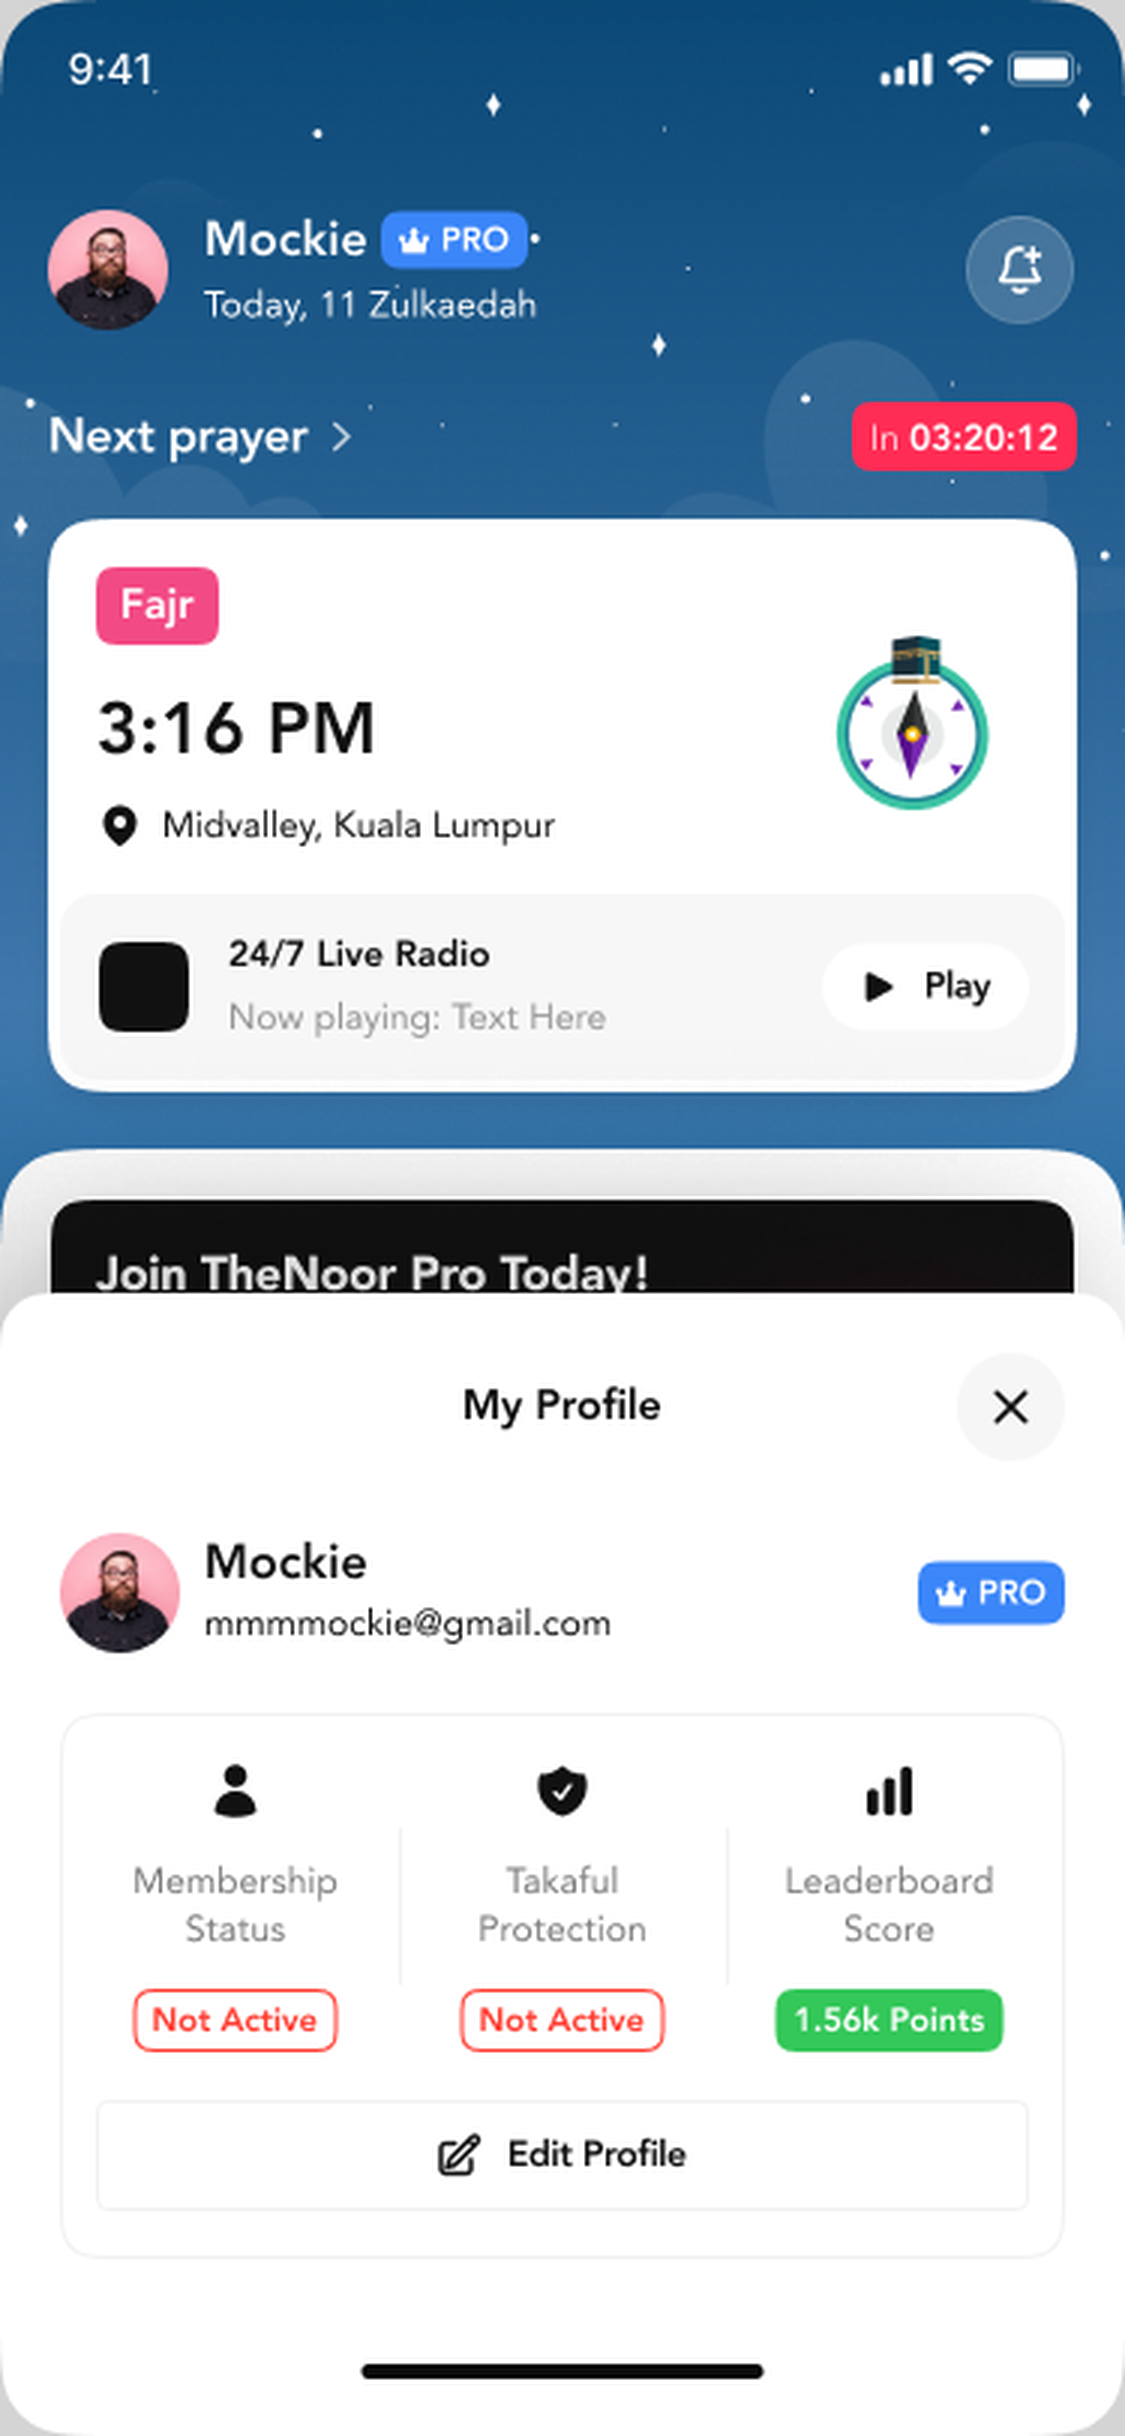
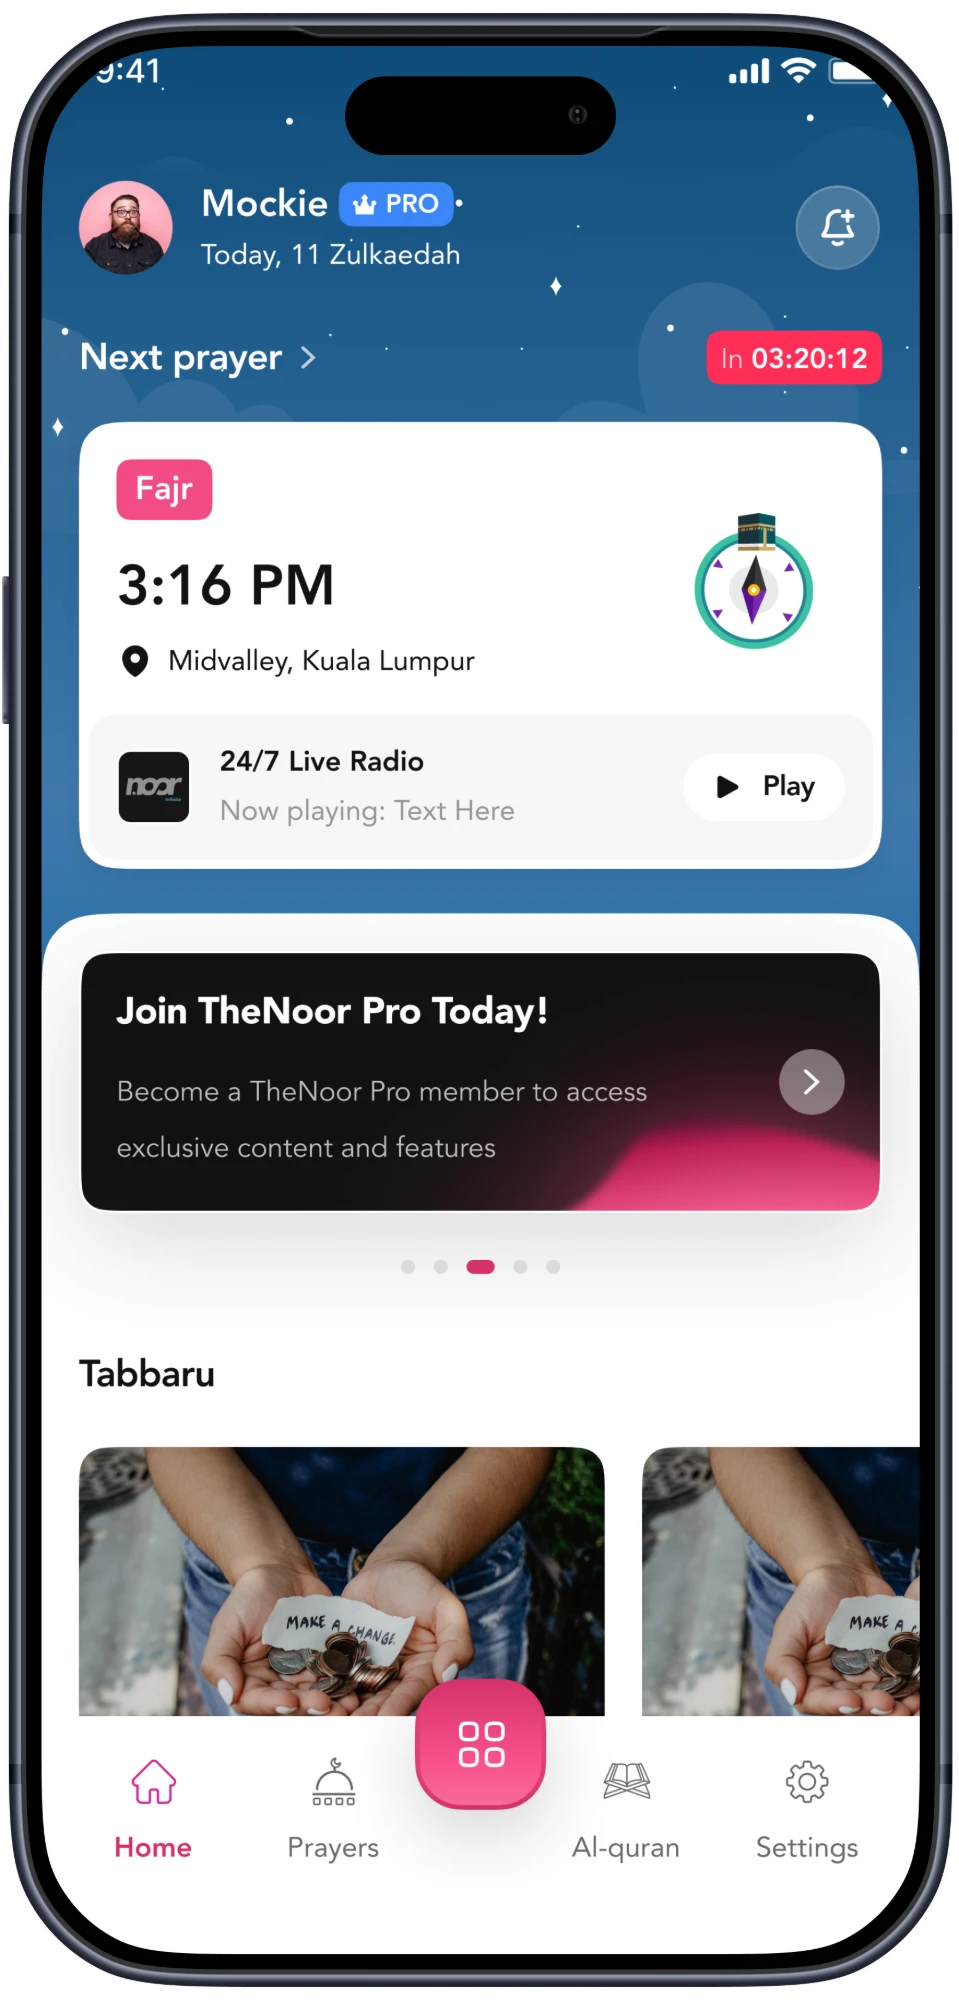
Fix hero phone mockup overflow on mobile, swap in new TheNoor frame
The rotated hero-mobile-peek pushed its visual edge past the
container on narrow viewports, hanging off the right side instead
of lining up with the browser-frame mockup below it. Also replaces
thenoor-mockup.png with a properly device-framed screenshot.

diff --git a/case-thenoor.html b/case-thenoor.html
@@ -8,7 +8,7 @@
 <meta http-equiv="Expires" content="0">
 <title>TheNoor - Case Study - Mahfudh Khoiri Amran</title>
 <meta name="description" content="Designing TheNoor, an all-in-one Muslim lifestyle app with prayer tools, an AI-powered Qur'an memorization checker, mood-based wellness, and a membership tier bundling donation and Takaful insurance.">
-<link rel="stylesheet" href="styles.css?v=71">
+<link rel="stylesheet" href="styles.css?v=72">
 </head>
 <body>
 <div class="ambient-bg" aria-hidden="true"><div class="ambient-layer a"></div><div class="ambient-layer b"></div><span class="firefly" style="top:15%;left:10%;animation-delay:0s,.8s;"></span><span class="firefly m2" style="top:60%;left:6%;animation-delay:3s,2s;"></span><span class="firefly m3 cool" style="top:25%;left:85%;animation-delay:6s,.3s;"></span><span class="firefly m4" style="top:80%;left:75%;animation-delay:2s,3.5s;"></span><span class="firefly m2 cool" style="top:45%;left:50%;animation-delay:9s,1.5s;"></span><span class="firefly" style="top:70%;left:30%;animation-delay:5s,2.8s;"></span><span class="firefly m3" style="top:10%;left:55%;animation-delay:1s,4s;"></span><span class="firefly m4 cool" style="top:90%;left:15%;animation-delay:7s,.6s;"></span><span class="firefly m2" style="top:35%;left:92%;animation-delay:4s,3s;"></span><span class="firefly m3" style="top:55%;left:20%;animation-delay:8s,1s;"></span></div>

diff --git a/case-noorcoffee.html b/case-noorcoffee.html
@@ -8,7 +8,7 @@
 <meta http-equiv="Expires" content="0">
 <title>TheNoor &amp; NoorCoffee - Case Study - Mahfudh Khoiri Amran</title>
 <meta name="description" content="Designing the TheNoor marketing website and NoorCoffee, its coffee franchise sub-brand, including a cafe-partner application flow, for Noor Luminous Sdn Bhd.">
-<link rel="stylesheet" href="styles.css?v=71">
+<link rel="stylesheet" href="styles.css?v=72">
 </head>
 <body>
 <div class="ambient-bg" aria-hidden="true"><div class="ambient-layer a"></div><div class="ambient-layer b"></div><span class="firefly" style="top:15%;left:10%;animation-delay:0s,.8s;"></span><span class="firefly m2" style="top:60%;left:6%;animation-delay:3s,2s;"></span><span class="firefly m3 cool" style="top:25%;left:85%;animation-delay:6s,.3s;"></span><span class="firefly m4" style="top:80%;left:75%;animation-delay:2s,3.5s;"></span><span class="firefly m2 cool" style="top:45%;left:50%;animation-delay:9s,1.5s;"></span><span class="firefly" style="top:70%;left:30%;animation-delay:5s,2.8s;"></span><span class="firefly m3" style="top:10%;left:55%;animation-delay:1s,4s;"></span><span class="firefly m4 cool" style="top:90%;left:15%;animation-delay:7s,.6s;"></span><span class="firefly m2" style="top:35%;left:92%;animation-delay:4s,3s;"></span><span class="firefly m3" style="top:55%;left:20%;animation-delay:8s,1s;"></span></div>

diff --git a/case-ommri.html b/case-ommri.html
@@ -8,7 +8,7 @@
 <meta http-equiv="Expires" content="0">
 <title>Ommri Badal Umrah - Case Study - Mahfudh Khoiri Amran</title>
 <meta name="description" content="Designing Ommri Badal Umrah, a two-sided Badal Umrah and Hajj marketplace connecting customers with verified performers in Mecca, with GPS-tracked ritual proof.">
-<link rel="stylesheet" href="styles.css?v=71">
+<link rel="stylesheet" href="styles.css?v=72">
 </head>
 <body>
 <div class="ambient-bg" aria-hidden="true"><div class="ambient-layer a"></div><div class="ambient-layer b"></div><span class="firefly" style="top:15%;left:10%;animation-delay:0s,.8s;"></span><span class="firefly m2" style="top:60%;left:6%;animation-delay:3s,2s;"></span><span class="firefly m3 cool" style="top:25%;left:85%;animation-delay:6s,.3s;"></span><span class="firefly m4" style="top:80%;left:75%;animation-delay:2s,3.5s;"></span><span class="firefly m2 cool" style="top:45%;left:50%;animation-delay:9s,1.5s;"></span><span class="firefly" style="top:70%;left:30%;animation-delay:5s,2.8s;"></span><span class="firefly m3" style="top:10%;left:55%;animation-delay:1s,4s;"></span><span class="firefly m4 cool" style="top:90%;left:15%;animation-delay:7s,.6s;"></span><span class="firefly m2" style="top:35%;left:92%;animation-delay:4s,3s;"></span><span class="firefly m3" style="top:55%;left:20%;animation-delay:8s,1s;"></span></div>

diff --git a/index.html b/index.html
@@ -8,7 +8,7 @@
 <meta http-equiv="Expires" content="0">
 <title>Mahfudh Khoiri Amran - Product Designer</title>
 <meta name="description" content="Mahfudh Khoiri Amran is a product designer based in Medan, Indonesia, shipping web and mobile UI for a Kuala Lumpur software house and independent Islamic-tech products.">
-<link rel="stylesheet" href="styles.css?v=71">
+<link rel="stylesheet" href="styles.css?v=72">
 </head>
 <body>
 <div class="ambient-bg" aria-hidden="true"><div class="ambient-layer a"></div><div class="ambient-layer b"></div><span class="firefly" style="top:15%;left:10%;animation-delay:0s,.8s;"></span><span class="firefly m2" style="top:60%;left:6%;animation-delay:3s,2s;"></span><span class="firefly m3 cool" style="top:25%;left:85%;animation-delay:6s,.3s;"></span><span class="firefly m4" style="top:80%;left:75%;animation-delay:2s,3.5s;"></span><span class="firefly m2 cool" style="top:45%;left:50%;animation-delay:9s,1.5s;"></span><span class="firefly" style="top:70%;left:30%;animation-delay:5s,2.8s;"></span><span class="firefly m3" style="top:10%;left:55%;animation-delay:1s,4s;"></span><span class="firefly m4 cool" style="top:90%;left:15%;animation-delay:7s,.6s;"></span><span class="firefly m2" style="top:35%;left:92%;animation-delay:4s,3s;"></span><span class="firefly m3" style="top:55%;left:20%;animation-delay:8s,1s;"></span></div>

diff --git a/case-alafasy.html b/case-alafasy.html
@@ -8,7 +8,7 @@
 <meta http-equiv="Expires" content="0">
 <title>Alafasy - Case Study - Mahfudh Khoiri Amran</title>
 <meta name="description" content="Designing Alafasy, an all-in-one Islamic companion app for prayer, Qur'an, Qiblah, and daily spiritual practice, live on the App Store, Play Store, and AppGallery.">
-<link rel="stylesheet" href="styles.css?v=71">
+<link rel="stylesheet" href="styles.css?v=72">
 </head>
 <body>
 <div class="ambient-bg" aria-hidden="true"><div class="ambient-layer a"></div><div class="ambient-layer b"></div><span class="firefly" style="top:15%;left:10%;animation-delay:0s,.8s;"></span><span class="firefly m2" style="top:60%;left:6%;animation-delay:3s,2s;"></span><span class="firefly m3 cool" style="top:25%;left:85%;animation-delay:6s,.3s;"></span><span class="firefly m4" style="top:80%;left:75%;animation-delay:2s,3.5s;"></span><span class="firefly m2 cool" style="top:45%;left:50%;animation-delay:9s,1.5s;"></span><span class="firefly" style="top:70%;left:30%;animation-delay:5s,2.8s;"></span><span class="firefly m3" style="top:10%;left:55%;animation-delay:1s,4s;"></span><span class="firefly m4 cool" style="top:90%;left:15%;animation-delay:7s,.6s;"></span><span class="firefly m2" style="top:35%;left:92%;animation-delay:4s,3s;"></span><span class="firefly m3" style="top:55%;left:20%;animation-delay:8s,1s;"></span></div>

diff --git a/exploratory.html b/exploratory.html
@@ -8,7 +8,7 @@
 <meta http-equiv="Expires" content="0">
 <title>Exploratory Design - Mahfudh Khoiri Amran</title>
 <meta name="description" content="Personal design explorations outside of client work, across e-commerce, streaming, travel, and ticketing products, by Mahfudh Khoiri Amran.">
-<link rel="stylesheet" href="styles.css?v=71">
+<link rel="stylesheet" href="styles.css?v=72">
 </head>
 <body>
 <div class="ambient-bg" aria-hidden="true"><div class="ambient-layer a"></div><div class="ambient-layer b"></div><span class="firefly" style="top:15%;left:10%;animation-delay:0s,.8s;"></span><span class="firefly m2" style="top:60%;left:6%;animation-delay:3s,2s;"></span><span class="firefly m3 cool" style="top:25%;left:85%;animation-delay:6s,.3s;"></span><span class="firefly m4" style="top:80%;left:75%;animation-delay:2s,3.5s;"></span><span class="firefly m2 cool" style="top:45%;left:50%;animation-delay:9s,1.5s;"></span><span class="firefly" style="top:70%;left:30%;animation-delay:5s,2.8s;"></span><span class="firefly m3" style="top:10%;left:55%;animation-delay:1s,4s;"></span><span class="firefly m4 cool" style="top:90%;left:15%;animation-delay:7s,.6s;"></span><span class="firefly m2" style="top:35%;left:92%;animation-delay:4s,3s;"></span><span class="firefly m3" style="top:55%;left:20%;animation-delay:8s,1s;"></span></div>

diff --git a/contact.html b/contact.html
@@ -8,7 +8,7 @@
 <meta http-equiv="Expires" content="0">
 <title>Contact - Mahfudh Khoiri Amran</title>
 <meta name="description" content="Get in touch with Mahfudh Khoiri Amran for freelance UI/UX work or full-time product design roles. Services offered and a direct contact form.">
-<link rel="stylesheet" href="styles.css?v=71">
+<link rel="stylesheet" href="styles.css?v=72">
 </head>
 <body>
 <div class="ambient-bg" aria-hidden="true"><div class="ambient-layer a"></div><div class="ambient-layer b"></div><span class="firefly" style="top:15%;left:10%;animation-delay:0s,.8s;"></span><span class="firefly m2" style="top:60%;left:6%;animation-delay:3s,2s;"></span><span class="firefly m3 cool" style="top:25%;left:85%;animation-delay:6s,.3s;"></span><span class="firefly m4" style="top:80%;left:75%;animation-delay:2s,3.5s;"></span><span class="firefly m2 cool" style="top:45%;left:50%;animation-delay:9s,1.5s;"></span><span class="firefly" style="top:70%;left:30%;animation-delay:5s,2.8s;"></span><span class="firefly m3" style="top:10%;left:55%;animation-delay:1s,4s;"></span><span class="firefly m4 cool" style="top:90%;left:15%;animation-delay:7s,.6s;"></span><span class="firefly m2" style="top:35%;left:92%;animation-delay:4s,3s;"></span><span class="firefly m3" style="top:55%;left:20%;animation-delay:8s,1s;"></span></div>

diff --git a/case-seda.html b/case-seda.html
@@ -8,7 +8,7 @@
 <meta http-equiv="Expires" content="0">
 <title>SEDA - Case Study - Mahfudh Khoiri Amran</title>
 <meta name="description" content="Designing SEDA, a five-role training and registration platform for Malaysia's Sustainable Energy Development Authority.">
-<link rel="stylesheet" href="styles.css?v=71">
+<link rel="stylesheet" href="styles.css?v=72">
 </head>
 <body>
 <div class="ambient-bg" aria-hidden="true"><div class="ambient-layer a"></div><div class="ambient-layer b"></div><span class="firefly" style="top:15%;left:10%;animation-delay:0s,.8s;"></span><span class="firefly m2" style="top:60%;left:6%;animation-delay:3s,2s;"></span><span class="firefly m3 cool" style="top:25%;left:85%;animation-delay:6s,.3s;"></span><span class="firefly m4" style="top:80%;left:75%;animation-delay:2s,3.5s;"></span><span class="firefly m2 cool" style="top:45%;left:50%;animation-delay:9s,1.5s;"></span><span class="firefly" style="top:70%;left:30%;animation-delay:5s,2.8s;"></span><span class="firefly m3" style="top:10%;left:55%;animation-delay:1s,4s;"></span><span class="firefly m4 cool" style="top:90%;left:15%;animation-delay:7s,.6s;"></span><span class="firefly m2" style="top:35%;left:92%;animation-delay:4s,3s;"></span><span class="firefly m3" style="top:55%;left:20%;animation-delay:8s,1s;"></span></div>

diff --git a/case-napz.html b/case-napz.html
@@ -8,7 +8,7 @@
 <meta http-equiv="Expires" content="0">
 <title>NapzBox - Case Study - Mahfudh Khoiri Amran</title>
 <meta name="description" content="Designing NapzBox, a booking platform for Nginapz, Malaysia's first smart pod and cabin hotel brand.">
-<link rel="stylesheet" href="styles.css?v=71">
+<link rel="stylesheet" href="styles.css?v=72">
 </head>
 <body>
 <div class="ambient-bg" aria-hidden="true"><div class="ambient-layer a"></div><div class="ambient-layer b"></div><span class="firefly" style="top:15%;left:10%;animation-delay:0s,.8s;"></span><span class="firefly m2" style="top:60%;left:6%;animation-delay:3s,2s;"></span><span class="firefly m3 cool" style="top:25%;left:85%;animation-delay:6s,.3s;"></span><span class="firefly m4" style="top:80%;left:75%;animation-delay:2s,3.5s;"></span><span class="firefly m2 cool" style="top:45%;left:50%;animation-delay:9s,1.5s;"></span><span class="firefly" style="top:70%;left:30%;animation-delay:5s,2.8s;"></span><span class="firefly m3" style="top:10%;left:55%;animation-delay:1s,4s;"></span><span class="firefly m4 cool" style="top:90%;left:15%;animation-delay:7s,.6s;"></span><span class="firefly m2" style="top:35%;left:92%;animation-delay:4s,3s;"></span><span class="firefly m3" style="top:55%;left:20%;animation-delay:8s,1s;"></span></div>

diff --git a/about.html b/about.html
@@ -8,7 +8,7 @@
 <meta http-equiv="Expires" content="0">
 <title>About - Mahfudh Khoiri Amran</title>
 <meta name="description" content="Experience, education, and skills of Mahfudh Khoiri Amran, a UI/UX and product designer based in Medan, Indonesia.">
-<link rel="stylesheet" href="styles.css?v=71">
+<link rel="stylesheet" href="styles.css?v=72">
 </head>
 <body>
 <div class="ambient-bg" aria-hidden="true"><div class="ambient-layer a"></div><div class="ambient-layer b"></div><span class="firefly" style="top:15%;left:10%;animation-delay:0s,.8s;"></span><span class="firefly m2" style="top:60%;left:6%;animation-delay:3s,2s;"></span><span class="firefly m3 cool" style="top:25%;left:85%;animation-delay:6s,.3s;"></span><span class="firefly m4" style="top:80%;left:75%;animation-delay:2s,3.5s;"></span><span class="firefly m2 cool" style="top:45%;left:50%;animation-delay:9s,1.5s;"></span><span class="firefly" style="top:70%;left:30%;animation-delay:5s,2.8s;"></span><span class="firefly m3" style="top:10%;left:55%;animation-delay:1s,4s;"></span><span class="firefly m4 cool" style="top:90%;left:15%;animation-delay:7s,.6s;"></span><span class="firefly m2" style="top:35%;left:92%;animation-delay:4s,3s;"></span><span class="firefly m3" style="top:55%;left:20%;animation-delay:8s,1s;"></span></div>

diff --git a/case-riverlens.html b/case-riverlens.html
@@ -8,7 +8,7 @@
 <meta http-equiv="Expires" content="0">
 <title>RiverLens - Case Study - Mahfudh Khoiri Amran</title>
 <meta name="description" content="Designing the marketing site and client product UI for RiverLens, a Kuala Lumpur software house.">
-<link rel="stylesheet" href="styles.css?v=71">
+<link rel="stylesheet" href="styles.css?v=72">
 </head>
 <body>
 <div class="ambient-bg" aria-hidden="true"><div class="ambient-layer a"></div><div class="ambient-layer b"></div><span class="firefly" style="top:15%;left:10%;animation-delay:0s,.8s;"></span><span class="firefly m2" style="top:60%;left:6%;animation-delay:3s,2s;"></span><span class="firefly m3 cool" style="top:25%;left:85%;animation-delay:6s,.3s;"></span><span class="firefly m4" style="top:80%;left:75%;animation-delay:2s,3.5s;"></span><span class="firefly m2 cool" style="top:45%;left:50%;animation-delay:9s,1.5s;"></span><span class="firefly" style="top:70%;left:30%;animation-delay:5s,2.8s;"></span><span class="firefly m3" style="top:10%;left:55%;animation-delay:1s,4s;"></span><span class="firefly m4 cool" style="top:90%;left:15%;animation-delay:7s,.6s;"></span><span class="firefly m2" style="top:35%;left:92%;animation-delay:4s,3s;"></span><span class="firefly m3" style="top:55%;left:20%;animation-delay:8s,1s;"></span></div>

diff --git a/case-arafa.html b/case-arafa.html
@@ -8,7 +8,7 @@
 <meta http-equiv="Expires" content="0">
 <title>Arafa - Case Study - Mahfudh Khoiri Amran</title>
 <meta name="description" content="Designing Arafa, a Shariah-compliant Umrah savings and booking platform.">
-<link rel="stylesheet" href="styles.css?v=71">
+<link rel="stylesheet" href="styles.css?v=72">
 </head>
 <body>
 <div class="ambient-bg" aria-hidden="true"><div class="ambient-layer a"></div><div class="ambient-layer b"></div><span class="firefly" style="top:15%;left:10%;animation-delay:0s,.8s;"></span><span class="firefly m2" style="top:60%;left:6%;animation-delay:3s,2s;"></span><span class="firefly m3 cool" style="top:25%;left:85%;animation-delay:6s,.3s;"></span><span class="firefly m4" style="top:80%;left:75%;animation-delay:2s,3.5s;"></span><span class="firefly m2 cool" style="top:45%;left:50%;animation-delay:9s,1.5s;"></span><span class="firefly" style="top:70%;left:30%;animation-delay:5s,2.8s;"></span><span class="firefly m3" style="top:10%;left:55%;animation-delay:1s,4s;"></span><span class="firefly m4 cool" style="top:90%;left:15%;animation-delay:7s,.6s;"></span><span class="firefly m2" style="top:35%;left:92%;animation-delay:4s,3s;"></span><span class="firefly m3" style="top:55%;left:20%;animation-delay:8s,1s;"></span></div>
